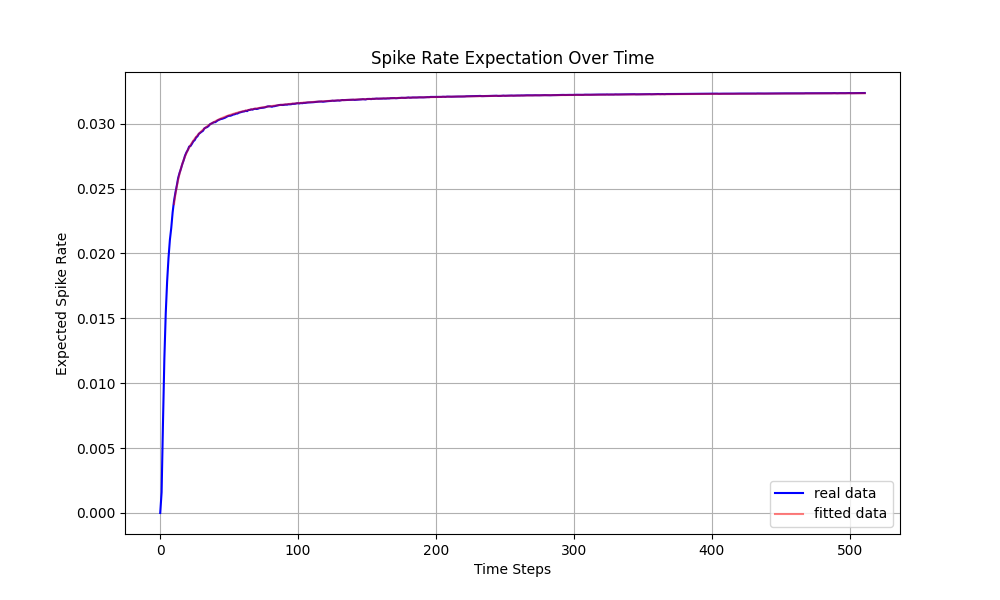
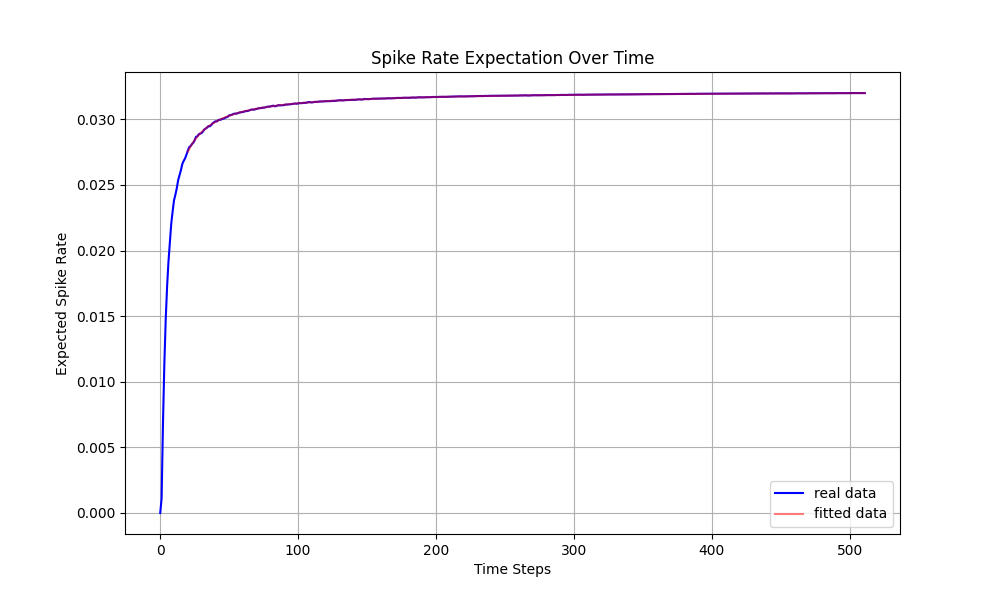
feat: plot rate v.s. 1/T to show linearity.

diff --git a/IF.py b/IF.py
@@ -109,6 +109,20 @@ def plot_expected_spike_rate(spike_rate_expectation: np.ndarray, fit_curve: np.n
     plt.savefig('./expected_spike_rate.png')
     plt.close()
 
+def plot_linear_fit(spike_rate_expectation: np.ndarray, fit_curve: np.ndarray = None, abort_before: int = 10):
+    plt.figure(figsize=(10, 6))
+    T = np.arange(abort_before + 1, len(spike_rate_expectation) + 1)
+    inverse_T = 1 / T
+    plt.plot(inverse_T, spike_rate_expectation[abort_before:], color = 'blue', label='real data', linewidth=3)
+    if fit_curve is not None:
+        plt.plot(inverse_T, fit_curve[abort_before:], color = 'red', label='fitted data', alpha = 0.7, linewidth=3)
+    plt.xlabel('inverse T')
+    plt.ylabel('Expected Spike Rate')
+    plt.title('Spike Rate Expectation Over Time')
+    plt.legend()
+    plt.savefig('./linear_fit.png')
+    plt.close()
+
 def fit_spike_rate_expectation(spike_rate_expectation: np.ndarray, abort_before: int = 10):
     # Fit the spike rate expectation to an exponential decay function
     from scipy.optimize import curve_fit
@@ -132,13 +146,14 @@ if __name__ == "__main__":
     dataloader = DataLoader(GaussianData(num_samples=10000, dim=100, mean = 0.0, std = 0.2), batch_size=256, shuffle=True)
     spike_rate_expectation_result = spike_rate_expectation(dataloader, num_neurons=100, threshold=1.0, T=512, device=device)
 
-    abort_before = 10
+    abort_before = 20
     fitted_params, r_squared = fit_spike_rate_expectation(spike_rate_expectation_result, abort_before=abort_before)
-    fitted_data = [None] * abort_before + [fitted_params[1] - fitted_params[0] / (t + 1) for t in range(abort_before, len(spike_rate_expectation_result))]
-    plot_expected_spike_rate(spike_rate_expectation_result, fit_curve=fitted_data)
-
     with open('./fitted_params.txt', 'w') as f:
         f.write(f"A_T = A_\infty - C / T\\\n")
         f.write(f"Fitted parameters: C = {fitted_params[0]}, A_\infty = {fitted_params[1]}\n")
         f.write(f"R^2 = {r_squared}\n")
+
+    fitted_data = [None] * abort_before + [fitted_params[1] - fitted_params[0] / (t + 1) for t in range(abort_before, len(spike_rate_expectation_result))]
+    plot_expected_spike_rate(spike_rate_expectation_result, fit_curve=fitted_data)
+    plot_linear_fit(spike_rate_expectation_result, fit_curve=fitted_data, abort_before=abort_before)
 
